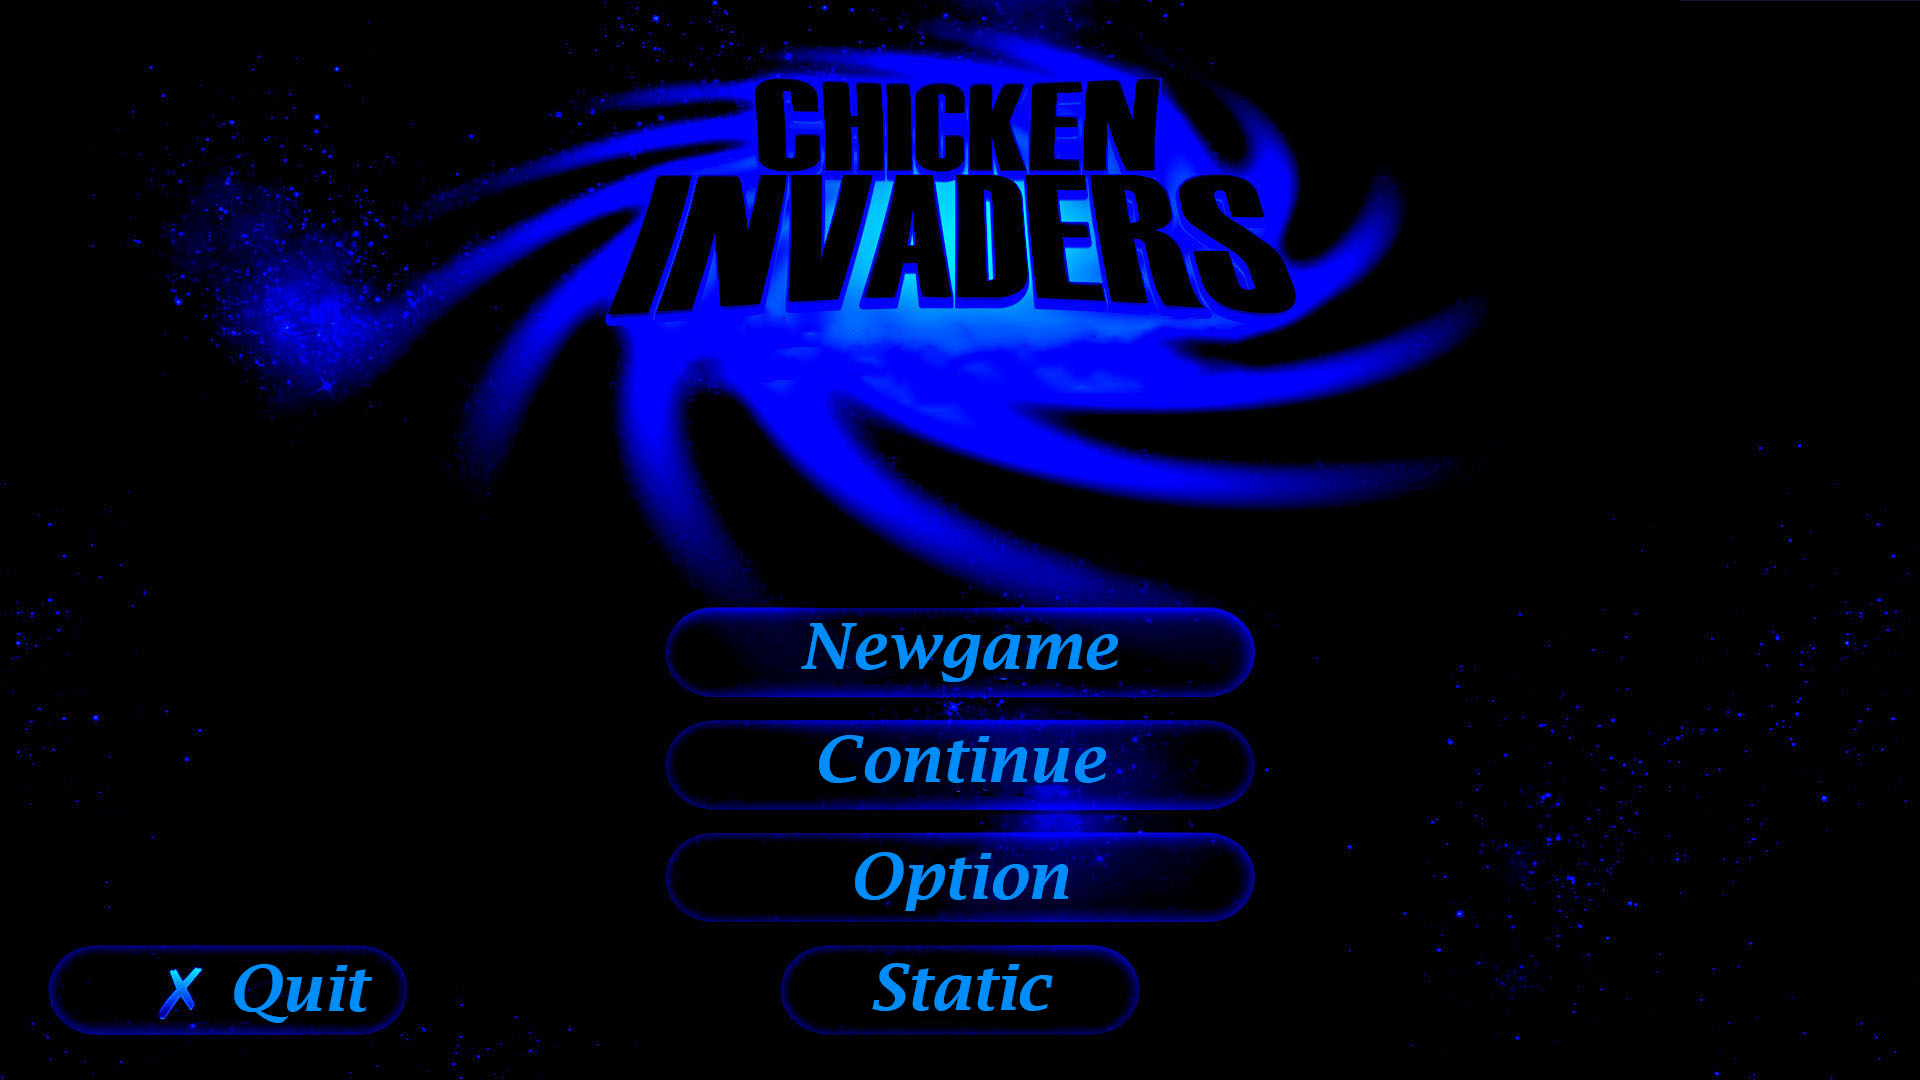
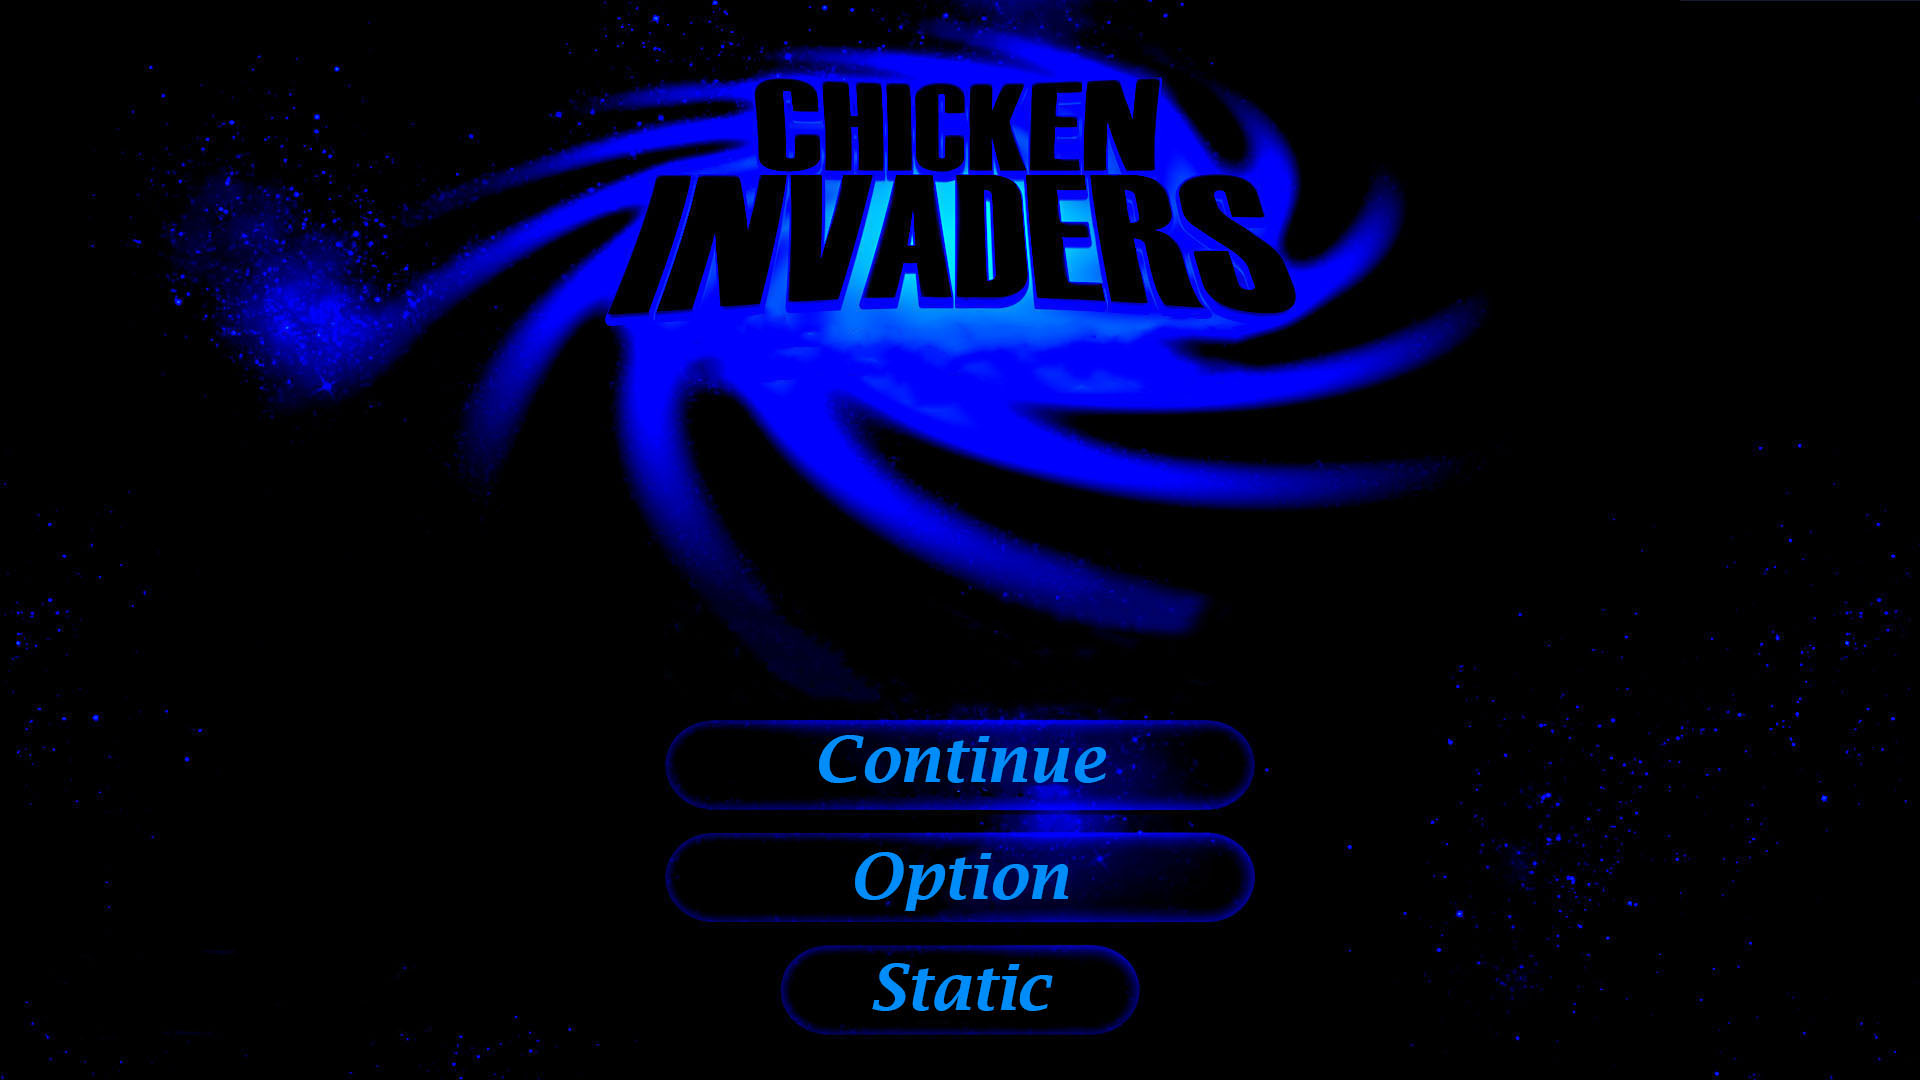
animated button

Changed region(s): [[0.3438, 0.55, 0.6562, 0.6722], [0.0, 0.8556, 0.2188, 0.9778]]

diff --git a/Menu.cpp b/Menu.cpp
@@ -18,7 +18,7 @@ Menu::Menu() : QGraphicsView()
     setVerticalScrollBarPolicy(Qt::ScrollBarAlwaysOff);
 
     // adding background
-    setBackgroundBrush(QBrush(QImage(":/images/menu/background1.jpeg")));
+    setBackgroundBrush(QBrush(QImage(":/images/menu/background1.jpg")));
 
     // creating mMedia
     mMedia = new QMediaPlayer();
@@ -36,7 +36,7 @@ Menu::Menu() : QGraphicsView()
     connect(mTimer , SIGNAL(timeout()) , this , SLOT(schedule()));
 
     // starting lTimer
-    mTimer->start(10);
+    mTimer->start(1000);
 
     // creating newgamebutton
     newGameButton = new NewGameButton(mScene);
@@ -70,14 +70,18 @@ void Menu::schedule()
         mTimer->stop();
         mMedia->stop();
 
-        // setting clicksound to mMedia
-        mMedia->setMedia(QUrl("qrc:/musics/menu/click.mp3"));
-
-        // playing clicksound
-        mMedia->play();
-
         // closing menu's window
         this->close();
+
+        // creating view
+        view = new View();
+
+        // showing view's window
+        view->show();
+    }
+    else if(quitButton->click == 1){
+        // exiting the game
+        exit(0);
     }
 }
 

diff --git a/NewGameButton.cpp b/NewGameButton.cpp
@@ -9,6 +9,9 @@ NewGameButton::NewGameButton(QGraphicsScene *scene) :  QGraphicsPixmapItem(), bu
     // adding to scene
     buttonScene->addItem(this);
     setPos(665, 603);
+
+    // creating media
+    buttonMedia = new QMediaPlayer();
 }
 
 // destructor
@@ -16,7 +19,6 @@ NewGameButton::~NewGameButton()
 {
     // deleting pointers
     delete buttonScene;
-    delete view;
 }
 
 // muuse event (click)
@@ -25,9 +27,16 @@ void NewGameButton::mousePressEvent(QGraphicsSceneMouseEvent *event)
     // changing click to 1
     click = 1;
 
-    // creating view
-    view = new View();
+    // setting picture
+    setPixmap(QPixmap(":/images/menu/newgamebutton2.jpg"));
 
-    // showing view's window
-    view->show();
+    // adding to scene
+    buttonScene->addItem(this);
+    setPos(755, 618);
+
+    // setting clicksound to mMedia
+    buttonMedia->setMedia(QUrl("qrc:/musics/menu/click.mp3"));
+
+    // playing clicksound
+    buttonMedia->play();
 }

diff --git a/QuitButton.cpp b/QuitButton.cpp
@@ -9,6 +9,9 @@ QuitButton::QuitButton(QGraphicsScene *scene) : QGraphicsPixmapItem(), buttonSce
     // adding to scene
     buttonScene->addItem(this);
     setPos(47, 938);
+
+    // creating media
+    buttonMedia = new QMediaPlayer();
 }
 
 // destructor
@@ -16,7 +19,6 @@ QuitButton::~QuitButton()
 {
     // deleting pointers
     delete buttonScene;
-    delete view;
 }
 
 // muuse event (click)
@@ -25,6 +27,16 @@ void QuitButton::mousePressEvent(QGraphicsSceneMouseEvent *event)
     // changing click to 1
     click = 1;
 
-    // exiting the game
-    exit(0);
+    // setting picture
+    setPixmap(QPixmap(":/images/menu/quitbutton2.jpg"));
+
+    // adding to scene
+    buttonScene->addItem(this);
+    setPos(102, 953);
+
+    // setting clicksound to mMedia
+    buttonMedia->setMedia(QUrl("qrc:/musics/menu/click.mp3"));
+
+    // playing clicksound
+    buttonMedia->play();
 }

diff --git a/NewGameButton.h b/NewGameButton.h
@@ -3,7 +3,8 @@
 
 #include <QGraphicsPixmapItem>
 #include <QGraphicsSceneMouseEvent>
-#include "View.h"
+#include <QMediaPlayer>
+#include <QGraphicsScene>
 
 class NewGameButton : public QGraphicsPixmapItem
 {
@@ -13,7 +14,7 @@ class NewGameButton : public QGraphicsPixmapItem
 private:
     // private members
     QGraphicsScene * buttonScene;
-    View * view;
+    QMediaPlayer * buttonMedia;
     int click;
 
 public:

diff --git a/QuitButton.h b/QuitButton.h
@@ -3,7 +3,8 @@
 
 #include <QGraphicsPixmapItem>
 #include <QGraphicsSceneMouseEvent>
-#include "View.h"
+#include <QMediaPlayer>
+#include <QGraphicsScene>
 
 class QuitButton : public QGraphicsPixmapItem
 {
@@ -13,7 +14,7 @@ class QuitButton : public QGraphicsPixmapItem
 private:
     // private members
     QGraphicsScene * buttonScene;
-    View * view;
+    QMediaPlayer * buttonMedia;
     int click;
 
 public:

diff --git a/Menu.h b/Menu.h
@@ -4,6 +4,7 @@
 #include <QGraphicsView>
 #include "NewGameButton.h"
 #include "Quitbutton.h"
+#include "View.h"
 
 class Menu : public QGraphicsView
 {
@@ -17,6 +18,7 @@ private:
     QTimer * mTimer;
     NewGameButton * newGameButton;
     QuitButton * quitButton;
+    View * view;
 
 public:
     // constructor
